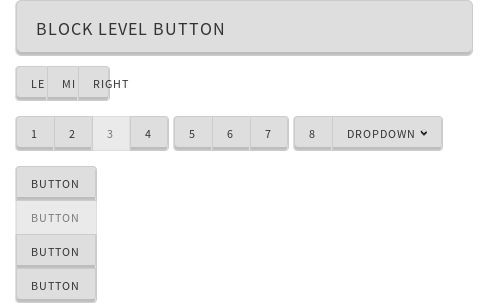
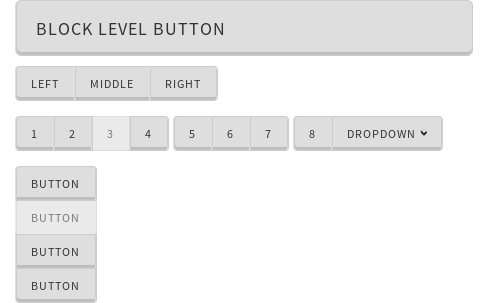
fix(button-groups): justified btn width (#101)
* fix: filename and justified btn width
* fix: path after auto refactoring
* Update screenshots from CI

Changed region(s): [[0.1848, 0.2079, 0.462, 0.3564], [0.0924, 0.2673, 0.154, 0.297]]

diff --git a/src/theme/theme.scss b/src/theme/theme.scss
@@ -21,7 +21,7 @@
 @import '~bootstrap-sass/assets/stylesheets/bootstrap/dropdowns';
 @import './dropdowns';
 @import '~bootstrap-sass/assets/stylesheets/bootstrap/button-groups';
-@import './button-groups.dropdown';
+@import './button-groups';
 @import '~bootstrap-sass/assets/stylesheets/bootstrap/input-groups';
 @import './input-groups';
 @import '~bootstrap-sass/assets/stylesheets/bootstrap/navs';

diff --git a/src/theme/_button-groups.scss b/src/theme/_button-groups.scss
@@ -23,4 +23,11 @@
 			}
 		}
 	}
+
+	&-justified {
+		> .btn,
+		> .btn-group {
+			width: auto;
+		}
+	}
 }
